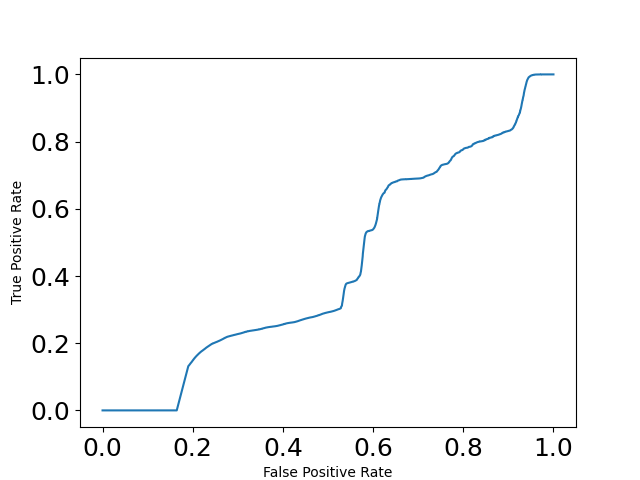
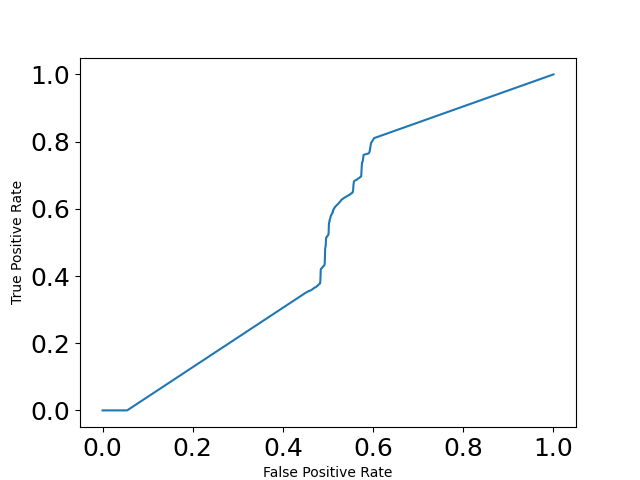
bug fixed in balanced training

diff --git a/src/model/predictive_model.py b/src/model/predictive_model.py
@@ -13,12 +13,13 @@ from src.support.utils import get_base_dir
 
 class ConcatenatedPredictiveVAE(nn.Module):
 
-    def __init__(self, model1, model3, input_size, output_size, device,params, random_noise=False, mean=0., std=1.):
+    def __init__(self, model1, model3, input_size, output_size, device,params,random_noise=True, mean=0., std=1.):
         super(ConcatenatedPredictiveVAE, self).__init__()
         self.params = params
         self.random_noise = random_noise
         self.mean = mean
         self.std = std
+      
         self.device = device
         self.model1 = model1
         self.model3 = model3
@@ -31,11 +32,12 @@ class ConcatenatedPredictiveVAE(nn.Module):
         )
         self.to(self.device)
         self.attack_type = self.params['attack_type']      # prende direttamente il valore da params
-        self.save_folder = self.params['SAVE_FOLDER'] 
-        self.loss_dir = os.path.join(self.save_folder, 'loss_model', f'loss_model_{self.attack_type}')
-        self.prc_dir  = os.path.join(self.save_folder, 'prc_model',  f'prc_model_{self.attack_type}')
-        self.auc_dir  = os.path.join(self.save_folder, 'auc_model',  f'auc_model_{self.attack_type}')
-        self.probs_csv_dir = os.path.join(self.save_folder, 'output_probs_model_csv', f'output_probs_{self.attack_type}')
+        self.save_folder = self.params['SAVE_FOLDER']
+        self.runs = self.params['n_runs']
+        self.loss_dir = os.path.join(self.save_folder, 'loss_model', f'loss_model_{self.attack_type}_{self.runs}')
+        self.prc_dir  = os.path.join(self.save_folder, 'prc_model',  f'prc_model_{self.attack_type}_{self.runs}')
+        self.auc_dir  = os.path.join(self.save_folder, 'auc_model',  f'auc_model_{self.attack_type}_{self.runs}')
+        self.probs_csv_dir = os.path.join(self.save_folder, 'output_probs_model_csv', f'output_probs_{self.attack_type}_{self.runs}')
         os.makedirs(self.loss_dir, exist_ok=True)
         os.makedirs(self.auc_dir, exist_ok=True)
         os.makedirs(self.prc_dir, exist_ok=True)
@@ -89,6 +91,14 @@ class ConcatenatedPredictiveVAE(nn.Module):
 
     def _train_one_epoch_balanced(self, train_loader, optimizer, criterion, batch_size, n_pos=5):
         self.train()
+        self.model1.eval()
+        self.model3.eval()
+        
+        for param in self.model1.parameters():
+            param.requires_grad = False
+
+        for param in self.model3.parameters():
+            param.requires_grad = False
     
 
         x_all = []
